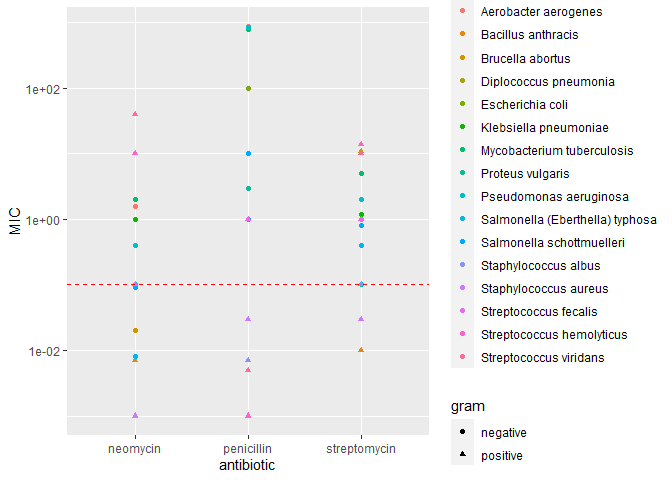
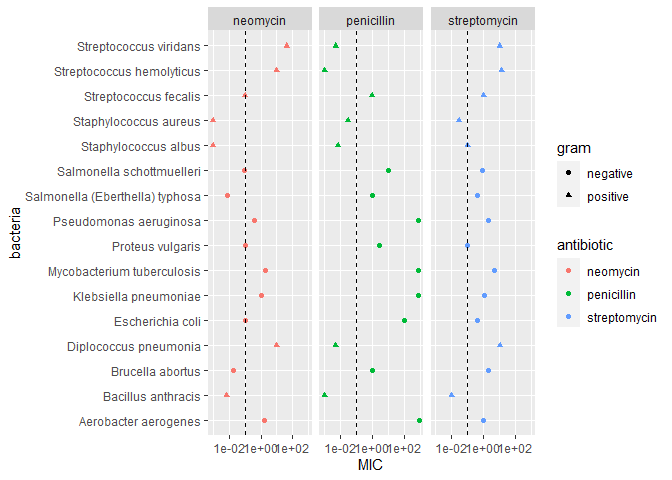
c05 revisions

diff --git a/challenges/c05-antibiotics-assignment.md b/challenges/c05-antibiotics-assignment.md
@@ -161,11 +161,24 @@ df_antibiotics_long <-
     values_to = "MIC"
     )
 
-df_antibiotics_long %>%
-  ggplot(aes(x = antibiotic, color = bacteria, y = MIC, shape = gram)) + 
+df_antibiotics_abbr <-
+  df_antibiotics_long %>%
+  mutate(
+    abbr = gsub(
+      "^([A-Z]).+\\s+([a-z]+)\\b", 
+      "\\1. \\2", 
+      bacteria
+    ),
+    gram_factor = factor(gram)
+  )
+
+
+df_antibiotics_abbr %>%
+  ggplot(aes(y = bacteria, color = antibiotic, x = MIC, shape = gram)) + 
     geom_point() +
-    geom_hline(yintercept = 0.1, linetype= "dashed", color = "red") + 
-    scale_y_log10()
+    geom_vline(xintercept = 0.1, linetype = "dashed") + 
+    facet_wrap(~ antibiotic, ncol = 3) +
+    scale_x_log10()
 ```
 
 ![](c05-antibiotics-assignment_files/figure-gfm/q1.1-1.png)<!-- -->
@@ -180,12 +193,30 @@ Note that your visual must be *qualitatively different* from *all* of
 your other visuals.
 
 ``` r
-df_antibiotics_long %>%
-  ggplot(aes(x = antibiotic, color = gram, y = MIC)) + 
-    geom_boxplot() +
-    geom_hline(yintercept = 0.1, linetype = "dashed") + 
-    scale_y_log10()
+# df_antibiotics_abbr %>%
+#   ggplot(aes(y = 1, color = antibiotic, x = MIC, shape = gram)) + 
+#     geom_point() +
+#     geom_vline(xintercept = 0.1, linetype = "dashed") + 
+#     facet_wrap(~ abbr, ncol = 4) +
+#     scale_x_log10()
+
+df_antibiotics_abbr %>%
+  ggplot(aes(x = antibiotic, y = bacteria, fill = MIC)) +
+    geom_tile(color = "white", size = 0.5) +
+    scale_fill_gradient2(trans = "log10", 
+                       midpoint = log10(0.1), 
+                       limits = c(0.001, 870), 
+                       low = "blue", 
+                       high = "red", 
+                       name = "Value"
+                       ) +
+    geom_label(aes(label = round(MIC, 2), color = gram), fill = "white", size = 3) +
+    scale_color_manual(values = c("green", "red")) +
+    theme_minimal()
 ```
+
+    ## Warning: Using `size` aesthetic for lines was deprecated in ggplot2 3.4.0.
+    ## ℹ Please use `linewidth` instead.
 
 ![](c05-antibiotics-assignment_files/figure-gfm/q1.2-1.png)<!-- -->
 
@@ -200,10 +231,10 @@ your other visuals.
 
 ``` r
 df_antibiotics_long %>%
-  ggplot(aes(x = MIC, color = antibiotic)) + 
-  geom_density() + 
-  geom_vline(xintercept = 0.1) + 
-  scale_x_log10()
+  ggplot(aes(x = antibiotic, color = gram, y = MIC)) + 
+    geom_boxplot() +
+    geom_hline(yintercept = 0.1, linetype = "dashed") + 
+    scale_y_log10()
 ```
 
 ![](c05-antibiotics-assignment_files/figure-gfm/q1.3-1.png)<!-- -->
@@ -305,13 +336,18 @@ and in 1984 *Streptococcus fecalis* was renamed *Enterococcus fecalis*
 > pneumoniae*?
 
 *Observations* - What is your response to the question above? -
-*Diplococcus pneumoniae* was renamed *Streptococcus pneumoniae* because
-it responds similarly to *Streptococcus hemolyticus* and *Streptococcus
-viridans* when exposed to the antibiotics *Neomycin*, *Penicillin*, and
-*Streptomycin*. - Which of your visuals above (1 through 5) is **most
-effective** at helping to answer this question? - Visual 4 - Why? -
-Visual 4 singles out the *Streptococcus* genus and shows the similar MIC
-values for each antibiotic.
+*Diplococcus pneumoniae* responds similarly to *Streptococcus
+hemolyticus* and *Streptococcus viridans* when exposed to the
+antibiotics *Neomycin*, *Penicillin*, and *Streptomycin*. Bacteria with
+similar `MIC` scores may have similar underlying structures and
+therefore be most appropriately grouped in the same genus The `MIC`
+score, and how bacteria interact with antibiotics, is related to the
+underlying structure of bacteria which determines genus. For example,
+properties like gram positivity, shape, metabalism and chemisrty may be
+used to define a genus. - Which of your visuals above (1 through 5) is
+**most effective** at helping to answer this question? - Visual 4 -
+Why? - Visual 4 singles out the *Streptococcus* genus and shows the
+similar MIC values for each antibiotic.
 
 # References
 
